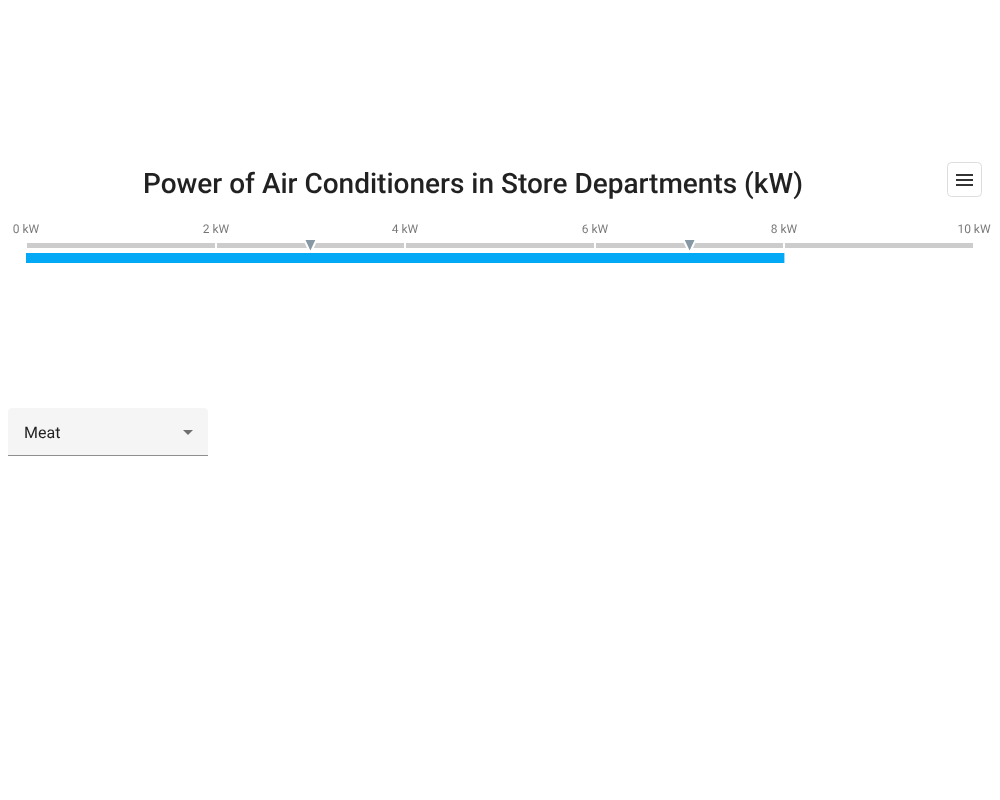
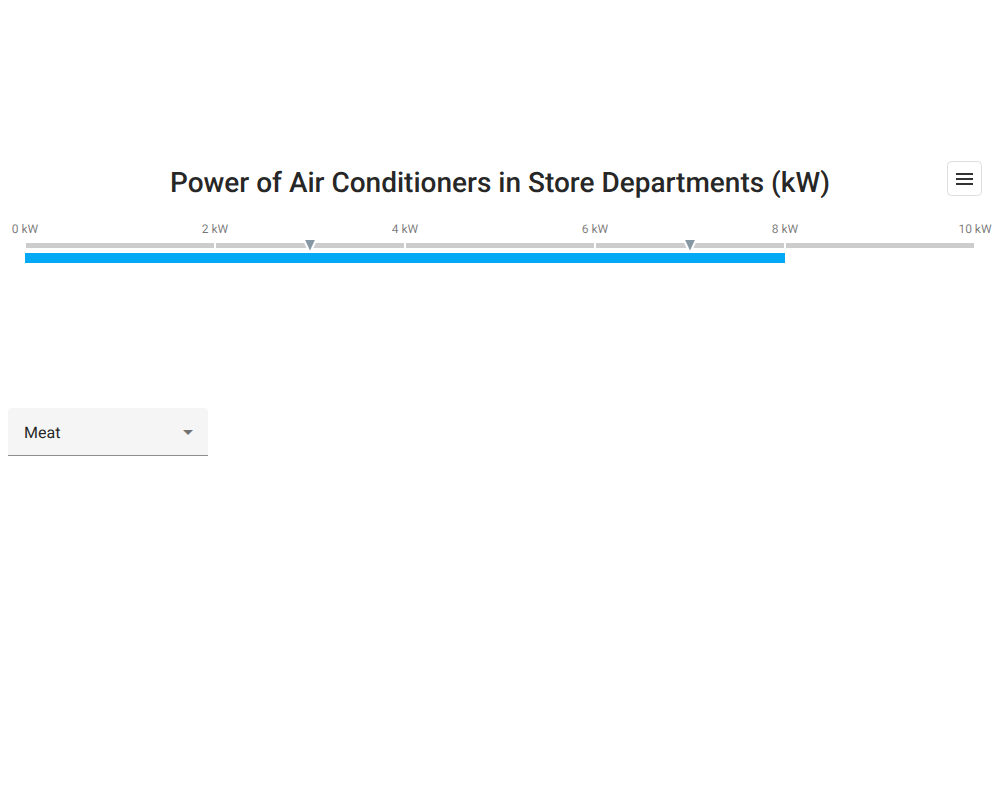
update etalons

diff --git a/apps/demos/utils/visual-tests/matrix-test-helper.ts b/apps/demos/utils/visual-tests/matrix-test-helper.ts
@@ -112,9 +112,11 @@ export function changeTheme(dirName, demoPath, theme) {
   }
 
   const updatedContent = globalReadFrom(dirName, demoPath, (data) => {
-    const result = data.replace(/data-theme="[^"]+"/g, `data-theme="${theme}"`);
+    let result = data.replace(/data-theme="[^"]+"/g, `data-theme="${theme}"`);
 
-    return result.replace(/dx\.[^.]+(\.css")/g, `dx.${theme}$1`);
+    result = result.replace(/dx\.[^"]+\.css/g, `dx.${theme}.css`);
+
+    return result;
   });
 
   const indexFilePath = join(dirName, demoPath);
@@ -320,10 +322,10 @@ export function runManualTestCore(
     }
 
     const theme = process.env.THEME.replace('generic.', '');
-    testURL = `http://127.0.0.1:808${getPortByIndex(index)}/${widget}/${demo}/${FRAMEWORKS[framework]}/?theme=dx.${theme}`;
+    testURL = `http://127.0.0.1:8080/${widget}/${demo}/${FRAMEWORKS[framework]}/?theme=dx.${theme}`;
   } else {
     changeTheme(__dirname, `../../Demos/${widget}/${demo}/${FRAMEWORKS[framework]}/index.html`, process.env.THEME);
-    testURL = `http://127.0.0.1:808${getPortByIndex(index)}/apps/demos/Demos/${widget}/${demo}/${FRAMEWORKS[framework]}/`;
+    testURL = `http://127.0.0.1:8080/apps/demos/Demos/${widget}/${demo}/${FRAMEWORKS[framework]}/`;
   }
   
   const getTestStyles = (demoName) => {

diff --git a/apps/demos/utils/visual-tests/helpers/theme-utils.js b/apps/demos/utils/visual-tests/helpers/theme-utils.js
@@ -29,13 +29,13 @@ export async function testScreenshot(
 
   const materialThemeOptions = isMaterialTheme ? {
     looksSameComparisonOptions: {
-      tolerance: 80,
+      tolerance: 90,
       ignoreAntialiasing: true,
-      antialiasingTolerance: 80,
+      antialiasingTolerance: 90,
       strict: false,
       caretIgnore: true,
     },
-    textDiffTreshold: 0.8,
+    textDiffTreshold: 0.9,
   } : {};
 
   const finalOptions = isMaterialTheme && comparisonOptions?.looksSameComparisonOptions

diff --git a/apps/demos/testing/common.test.ts b/apps/demos/testing/common.test.ts
@@ -125,10 +125,10 @@ Object.values(FRAMEWORKS).forEach((approach) => {
     let pageURL = '';
     const theme = process.env.THEME.replace('generic.', '');
     if (isGitHubDemos) {
-      pageURL = `http://127.0.0.1:808${getPortByIndex(index)}/Demos/${widgetName}/${demoName}/${approach}/?theme=dx.${theme}`;
+      pageURL = `http://127.0.0.1:8080/Demos/${widgetName}/${demoName}/${approach}/?theme=dx.${theme}`;
     } else {
       changeTheme(__dirname, `../${demoPath}/index.html`, process.env.THEME);
-      pageURL = `http://127.0.0.1:808${getPortByIndex(index)}/apps/demos/Demos/${widgetName}/${demoName}/${approach}/`;
+      pageURL = `http://127.0.0.1:8080/apps/demos/Demos/${widgetName}/${demoName}/${approach}/`;
     }
     // remove when tests enabled not only for datagrid
     if (isGitHubDemos && (widgetName !== 'DataGrid' || gitHubIgnored.includes(demoName))) {